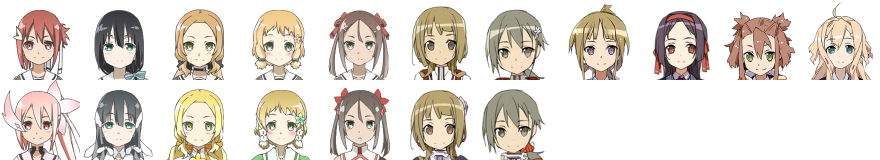
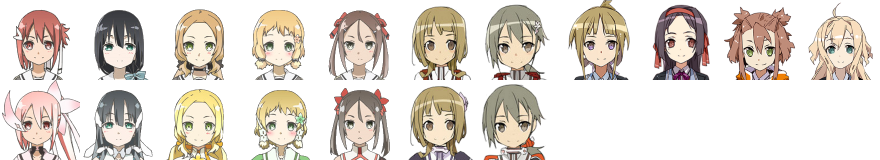
Adjust User Flair
Changed alignment of character faces in User Flairs
Adjusted position of character faces in User Flair

Changed region(s): [[0.5523, 0.0, 0.9205, 0.5], [0.4602, 0.5312, 0.6443, 1.0]]

diff --git a/YuYuYu/Stylesheet/Modules/User Flairs.scss b/YuYuYu/Stylesheet/Modules/User Flairs.scss
@@ -1,16 +1,3 @@
-/* --- Addon: User Flairs --- */
-$flair-yuna-background-color: #EBCCCC;
-$flair-mimori-background-color: #636B73;
-$flair-fu-background-color: #EAE96B;
-$flair-itsuki-background-color: #A2D792;
-$flair-karin-background-color: #CC6065;
-$flair-sonoko-background-color: #90819E;
-$flair-gin-background-color: #E07B59;
-$flair-wakaba-background-color: #6FA5ED;
-$flair-hinata-background-color: #C16964;
-$flair-tamako-background-color: #EDAE6A;
-$flair-anzu-background-color: #A8BFED;
-
 .flair {
   border: 0;
   display: inline-block;
@@ -63,116 +50,33 @@ $flair-anzu-background-color: #A8BFED;
 .titlebox .tagline .flair-graphic::before,
 .sidecontentbox > .content .flair-graphic::before,
 .flairselector > .flairoptionpane .flair-graphic:before {
-  left: -20px;
+  left: -22px;
+  top: -2px;
 }
-.flair-yuna-0,
-.flair-yuna-1 {
-  background-color: $flair-yuna-background-color;
+
+$graphic-flairs: (
+  ('yuna',   #EBCCCC,   -0px),
+  ('mimori', #636B73,  -80px),
+  ('fu',     #EAE96B, -160px),
+  ('itsuki', #A2D792, -240px),
+  ('karin',  #CC6065, -320px),
+  ('sonoko', #90819E, -400px),
+  ('gin',    #E07B59, -480px),
+  ('wakaba', #6FA5ED, -560px),
+  ('hinata', #C16964, -640px),
+  ('tamako', #EDAE6A, -720px),
+  ('anzu',   #A8BFED, -800px)
+);
+
+@each $value in $graphic-flairs {
+  .flair-#{nth($value, 1)}-0,
+  .flair-#{nth($value, 1)}-1 {
+    background-color: #{nth($value, 2)};
+  }
+  .flair-#{nth($value, 1)}-0::before {
+    background-position: #{nth($value, 3)} 0px;
+  }
+  .flair-#{nth($value, 1)}-1::before {
+    background-position: #{nth($value, 3)} -80px;
+  }
 }
-.flair-yuna-0::before {
-  background-position: 0 0;
-}
-.flair-yuna-1::before {
-  background-position: 0 -80px;
-}
-.flair-mimori-0,
-.flair-mimori-1 {
-  background-color: $flair-mimori-background-color;
-}
-.flair-mimori-0::before {
-  background-position: -80px 0;
-}
-.flair-mimori-1::before {
-  background-position: -80px -80px;
-}
-.flair-fu-0,
-.flair-fu-1 {
-  background-color: $flair-fu-background-color;
-}
-.flair-fu-0::before {
-  background-position: -160px 0;
-}
-.flair-fu-1::before {
-  background-position: -160px -80px;
-}
-.flair-itsuki-0,
-.flair-itsuki-1 {
-  background-color: $flair-itsuki-background-color;
-}
-.flair-itsuki-0::before {
-  background-position: -240px 0;
-}
-.flair-itsuki-1::before {
-  background-position: -240px -80px;
-}
-.flair-karin-0,
-.flair-karin-1 {
-  background-color: $flair-karin-background-color;
-}
-.flair-karin-0::before {
-  background-position: -320px 0;
-}
-.flair-karin-1::before {
-  background-position: -320px -80px;
-}
-.flair-sonoko-0,
-.flair-sonoko-1 {
-  background-color: $flair-sonoko-background-color;
-}
-.flair-sonoko-0::before {
-  background-position: -400px 0;
-}
-.flair-sonoko-1::before {
-  background-position: -400px -80px;
-}
-.flair-gin-0,
-.flair-gin-1 {
-  background-color: $flair-gin-background-color;
-}
-.flair-gin-0::before {
-  background-position: -480px 0;
-}
-.flair-gin-1::before {
-  background-position: -480px -80px;
-}
-.flair-wakaba-0,
-.flair-wakaba-1 {
-  background-color: $flair-wakaba-background-color;
-}
-.flair-wakaba-0::before {
-  background-position: -560px 0;
-}
-.flair-wakaba-1::before {
-  background-position: -560px -80px;
-}
-.flair-hinata-0,
-.flair-hinata-1 {
-  background-color: $flair-hinata-background-color;
-}
-.flair-hinata-0::before {
-  background-position: -640px 0;
-}
-.flair-hinata-1::before {
-  background-position: -640px -80px;
-}
-.flair-tamako-0,
-.flair-tamako-1 {
-  background-color: $flair-tamako-background-color;
-}
-.flair-tamako-0::before {
-  background-position: -720px 0;
-}
-.flair-tamako-1::before {
-  background-position: -720px -80px;
-}
-.flair-anzu-0,
-.flair-anzu-1 {
-  background-color: $flair-anzu-background-color;
-}
-.flair-anzu-0::before {
-  background-position: -800px 0;
-}
-.flair-anzu-1::before {
-  background-position: -800px -80px;
-}
-/* --- End Addon --- */
